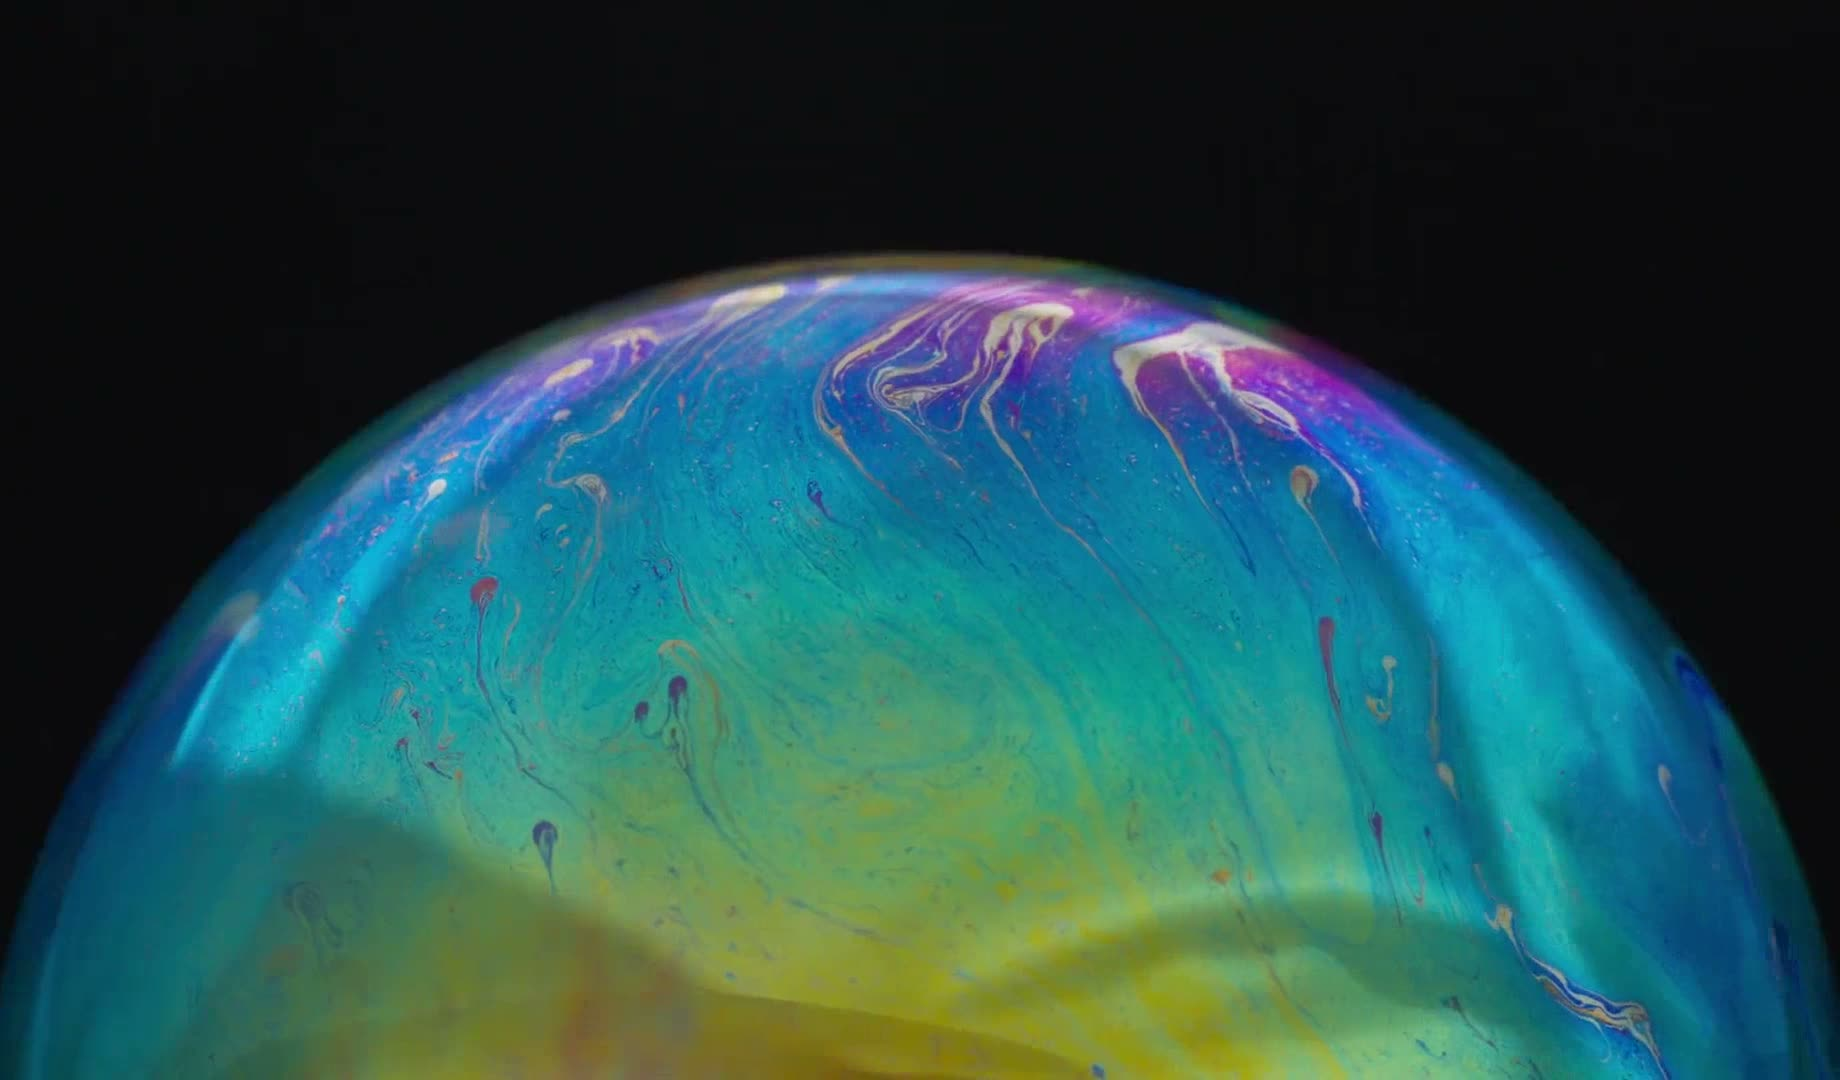
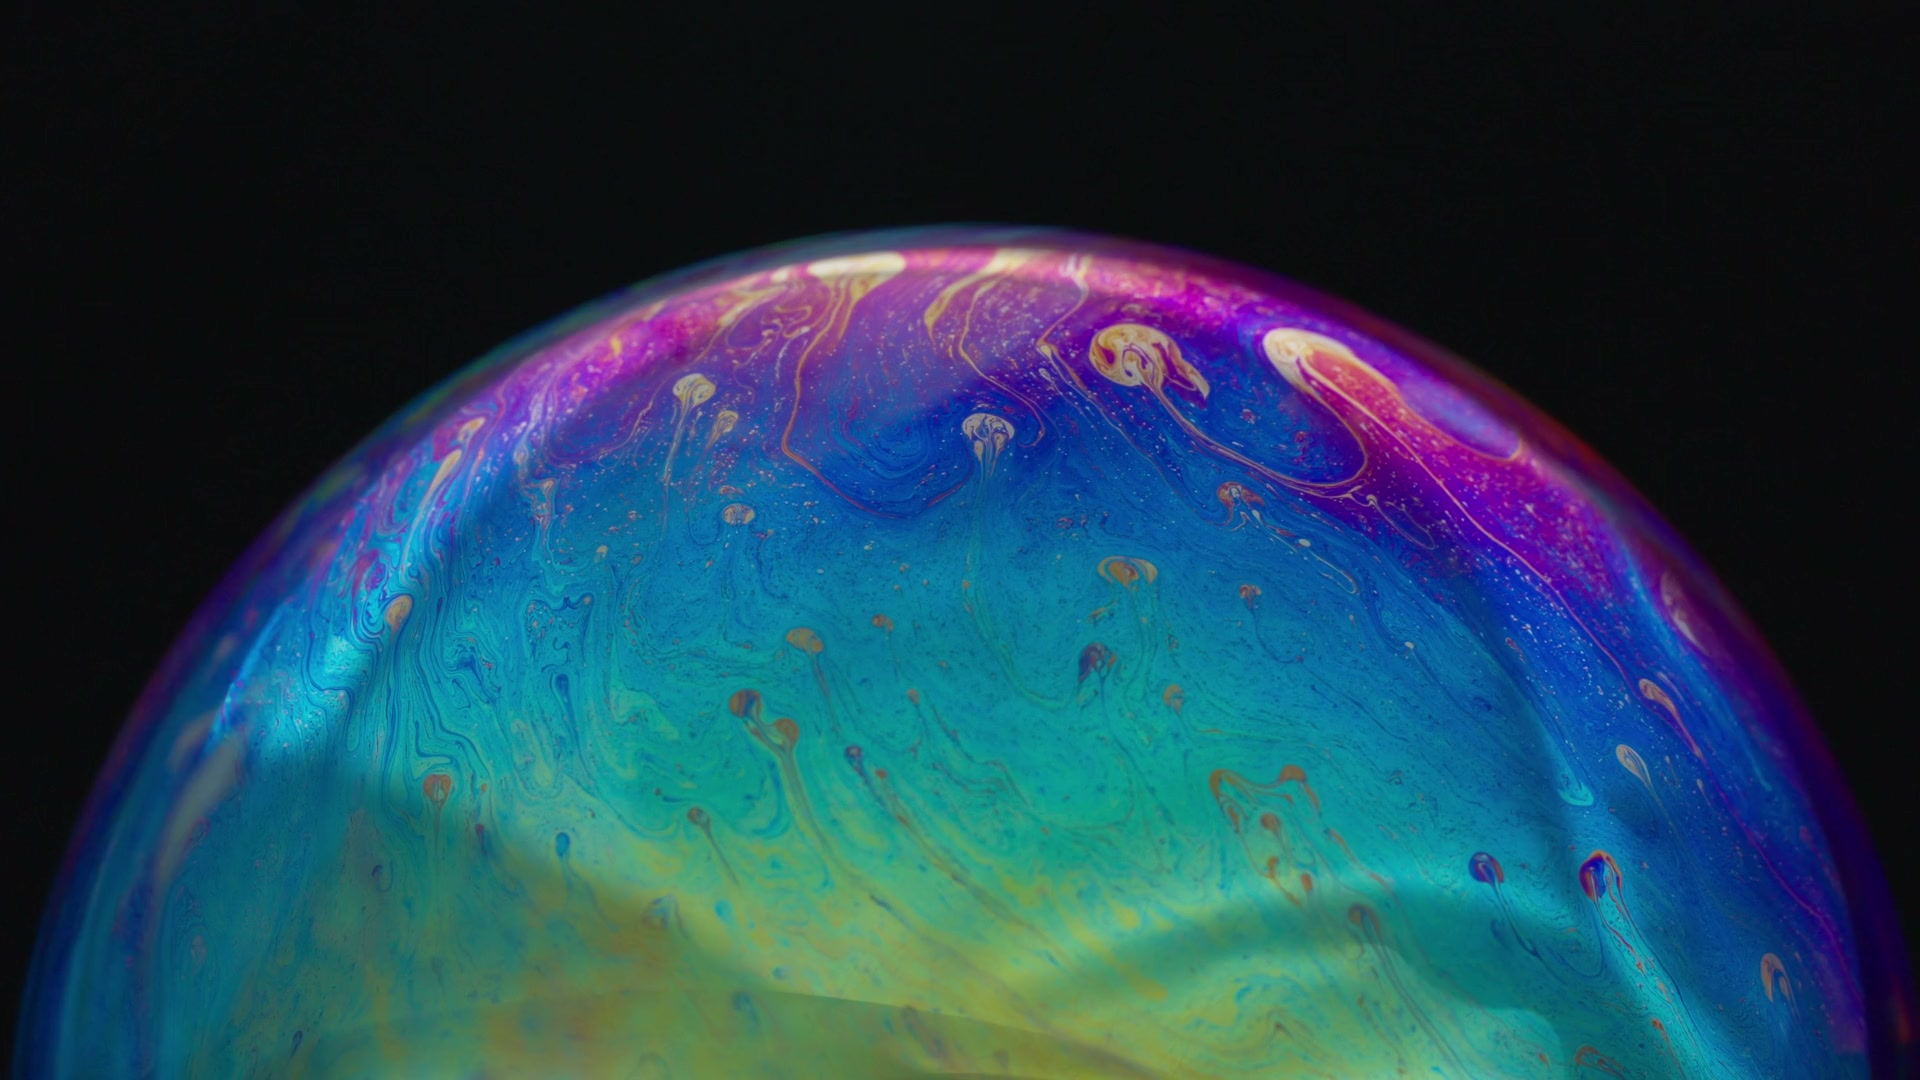
Replace hero video with shorter centered seamlessly-looping sphere
Crop the new clip so the iridescent half-sphere sits at the exact
horizontal centre, then xfade the last second of an 8 s segment into
the first second so the loop is visually seamless. Cuts both files to
roughly an eighth of their previous size (MP4 19.5→2.5 MB, WebM
21.2→2.2 MB) while staying at 1920×1080. Regenerates the poster from
the new first frame and drops the slow zoom on it so the still and
the live video share identical sphere dimensions during the fade-in.

diff --git a/assets/css/main.css b/assets/css/main.css
@@ -544,16 +544,15 @@ strong { font-weight: 600; color: var(--color-ink); }
   color: #fff;
 }
 
-/* Background video (with poster fallback) + readability overlay */
-.hero-bg { position: absolute; inset: 0; z-index: -1; overflow: hidden; }
+/* Background video (with matching static poster) + readability overlay */
+.hero-bg { position: absolute; inset: 0; z-index: -1; overflow: hidden; background: #000; }
 .hero-bg-poster {
   position: absolute; inset: 0;
   background-size: cover;
   background-position: center;
   background-repeat: no-repeat;
-  /* Subtle slow zoom keeps a tiny bit of motion before the video appears
-     and is the only thing visible if autoplay is refused. */
-  animation: hero-bg-zoom 24s var(--ease-out) infinite alternate;
+  /* No zoom — must stay pixel-identical to the video's first frame so
+     the cross-fade is invisible. */
 }
 .hero-bg-video {
   position: absolute; inset: 0;
@@ -566,12 +565,11 @@ strong { font-weight: 600; color: var(--color-ink); }
      If the browser refuses autoplay (Safari Low Power, etc.), the
      <video> never becomes visible and no tap-to-play overlay shows. */
   opacity: 0;
-  transition: opacity 600ms var(--ease-out);
+  transition: opacity 120ms var(--ease-out);
 }
 .hero-bg-video.is-playing { opacity: 1; }
 /* Suppress every browser's native overlay/PiP/start button on the off
-   chance the element becomes visible while paused. Cast button is
-   handled by the disableremoteplayback attribute on the <video>. */
+   chance the element becomes visible while paused. */
 .hero-bg-video::-webkit-media-controls,
 .hero-bg-video::-webkit-media-controls-panel,
 .hero-bg-video::-webkit-media-controls-play-button,
@@ -581,13 +579,8 @@ strong { font-weight: 600; color: var(--color-ink); }
   -webkit-appearance: none !important;
   appearance: none !important;
 }
-@keyframes hero-bg-zoom {
-  from { transform: scale(1); }
-  to   { transform: scale(1.06); }
-}
 @media (prefers-reduced-motion: reduce) {
   .hero-bg-video { display: none; }
-  .hero-bg-poster { animation: none; }
 }
 .hero-bg-overlay {
   position: absolute; inset: 0;